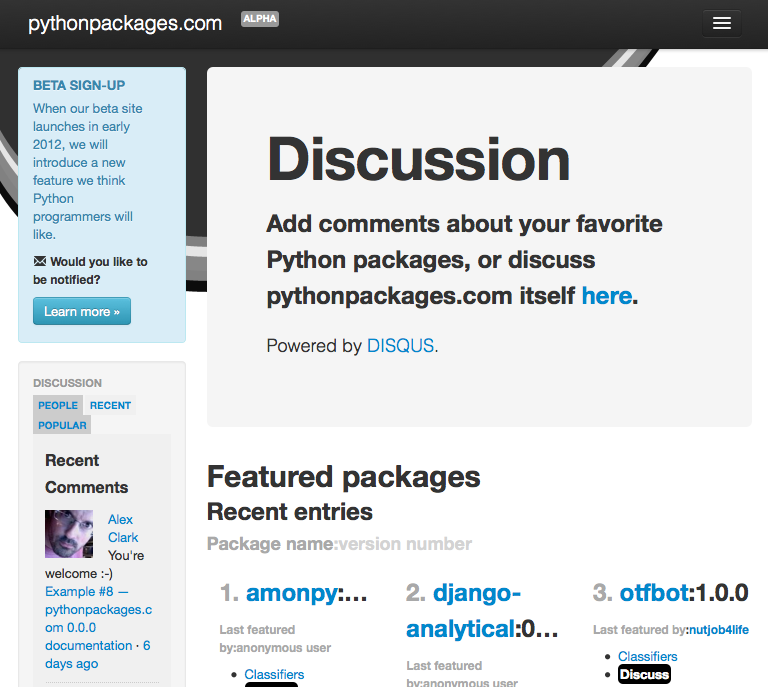
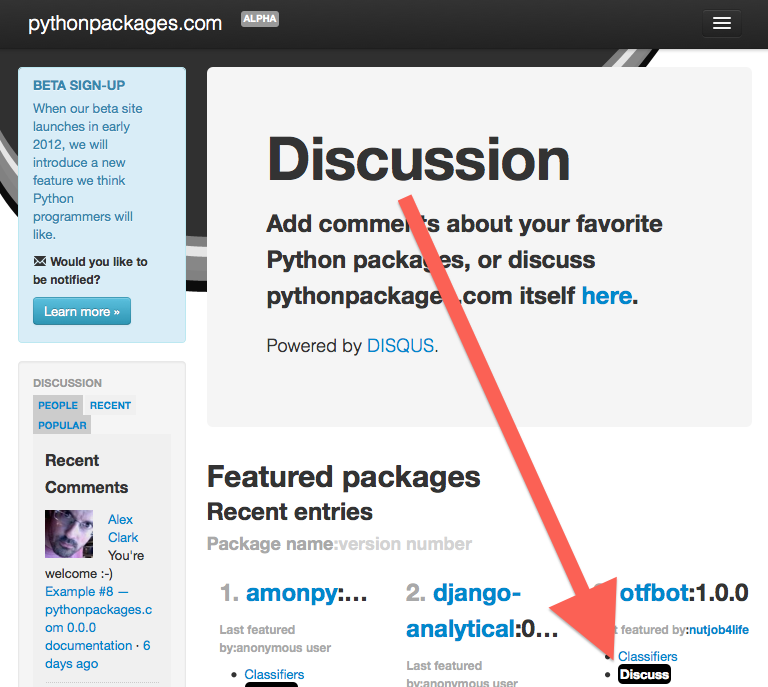
Add image

Changed region(s): [[0.5, 0.2751, 0.8125, 0.9782]]

diff --git a/features05-discussion.rst b/features05-discussion.rst
@@ -3,11 +3,18 @@
 Discuss packages
 ----------------
 
-`pythonpackages.com`_ includes a package discussion feature. 
+`pythonpackages.com`_ includes a package discussion feature.
 
 .. image:: https://github.com/aclark4life/pythonpackages-docs/raw/master/features05-discussion-00.png
    :width: 389.5
    :height: 342.5
+
+Follow the links to the discussion section of any package to add a comment.
+E.g.:
+
+.. image:: https://github.com/aclark4life/pythonpackages-docs/raw/master/features05-discussion-01.png
+
+
 
 .. _`pythonpackages.com`: http://pythonpackages.com
 
